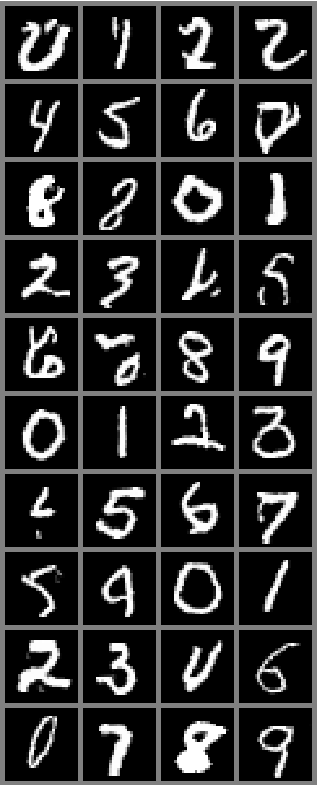
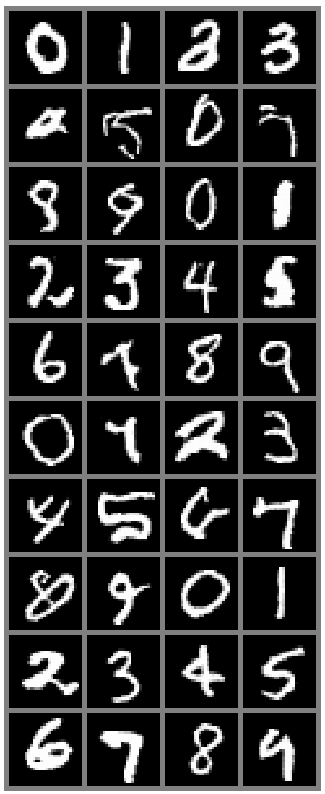
backup

diff --git a/scripts/test_v2.py b/scripts/test_v2.py
@@ -38,6 +38,20 @@ print("Using device", device)
 
 torch.set_printoptions(linewidth=200, profile="full")
 
+
+img = torch.ones(size=(1, 1, 100, 100))
+for kernel in range(1, 10):
+    for padding in range(10):
+        for dilation in range(1, 10):
+            for stride in range(1, 10):
+                conv = nn.ConvTranspose2d(in_channels=1, out_channels=1, kernel_size=kernel, padding=padding, dilation=dilation, stride=stride)
+                result = conv(img)
+                if result.size(3) != (img.size(3) - 1) * stride + dilation * (kernel - 1) - 2 * padding + 1:
+                    print(f"result: {result.size(3)}, origin: {img.size(3)}, padding: {padding}, kernel: {kernel}, dilation: {dilation}, calculated: {(img.size(3) - 1) * stride + dilation * (kernel - 1) - 2 * padding}")
+
+exit()
+
+
 class HelperConstruct(nn.Module):
     def __init__(self, c_in=3, c_hidden=3, kernel_size=3):
         super().__init__()

diff --git a/scripts/gen_mnist.py b/scripts/gen_mnist.py
@@ -72,7 +72,7 @@ val_loader = data.DataLoader(val_set, batch_size=128, shuffle=False, drop_last=F
 
 condition = torch.tensor((0, 1, 2, 3, 4, 5, 6, 7, 8, 9))
 condition = condition.repeat(4)
-show_imgs(sample(model, [len(condition), 1, 28, 28], device, model_name="v22_gen_mnist", folder="gen_mnist_condition", SAVE_PATH=SAVE_PATH, temp=1, img=None, condition=condition))
+show_imgs(sample(model, [len(condition), 1, 28, 28], device, model_name="v43_gen_mnist", folder="gen_mnist_condition", SAVE_PATH=SAVE_PATH, temp=1, img=None, condition=condition))
 exit()
 
 trainPixelCNN(model=model, loss_module=loss_module, optimizer=optimizer, train_data_loader=train_loader, validation_data_loader=val_loader, 

diff --git a/scripts/pixelcnn_dmold.py b/scripts/pixelcnn_dmold.py
@@ -314,9 +314,7 @@ def compute_loss(loss_module, device, data_inputs, means, log_scales, mixture_lo
 
     summed_prob = torch.sum(weighted_prob, dim=1)
 
-    target = torch.ones(summed_prob.size(), dtype=torch.float32, device=device)
-
-    loss = loss_module(summed_prob, target)
+    loss = - torch.log(summed_prob)
     loss = loss.unsqueeze(1)
 
     loss_bits_per_dim_train = loss.mean(dim=[1,2,3]) * np.log2(np.exp(1))
